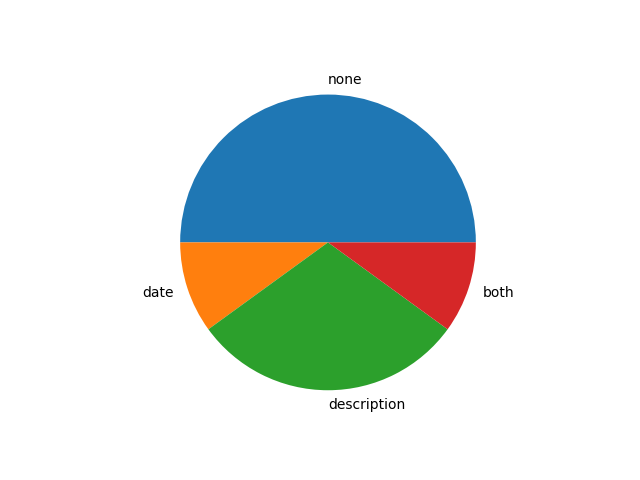
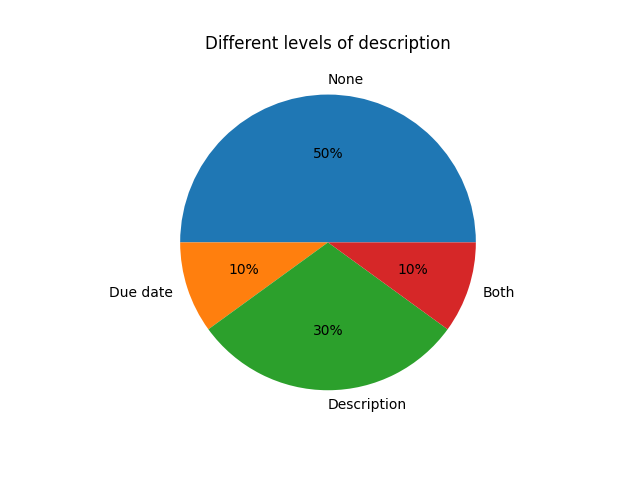
graphs shown in users

diff --git a/front-end/src/routes/+layout.svelte b/front-end/src/routes/+layout.svelte
@@ -47,7 +47,7 @@
               <a href="/" class="text-gray-300 hover:bg-gray-700 hover:text-white rounded-md px-3 py-2 text-sm font-medium">Home</a>
               <a href="/tasks" class="text-gray-300 hover:bg-gray-700 hover:text-white rounded-md px-3 py-2 text-sm font-medium">Tasks</a>
               <a href="/about" class="text-gray-300 hover:bg-gray-700 hover:text-white rounded-md px-3 py-2 text-sm font-medium">About</a>
-              {#if admin}
+              {#if admin} 
                 <a href="/users" class="text-gray-300 hover:bg-gray-700 hover:text-white rounded-md px-3 py-2 text-sm font-medium">Users</a>
               {/if}
             </div>
@@ -74,7 +74,7 @@
         <a href="/tasks" class="text-gray-300 hover:bg-gray-700 hover:text-white block rounded-md px-3 py-2 text-base font-medium">Tasks</a>
         <a href="/about" class="text-gray-300 hover:bg-gray-700 hover:text-white block rounded-md px-3 py-2 text-base font-medium">About</a>
         {#if admin}
-        <a href="/users" class="text-gray-300 hover:bg-gray-700 hover:text-white block rounded-md px-3 py-2 text-base font-medium">Users</a>
+            <a href="/users" class="text-gray-300 hover:bg-gray-700 hover:text-white block rounded-md px-3 py-2 text-base font-medium">Users</a>
         {/if}
     </div>
     </div>

diff --git a/front-end/src/routes/users/+page.svelte b/front-end/src/routes/users/+page.svelte
@@ -57,3 +57,18 @@
 {#if is_fetched}
     <Users {users} {SERWER_URL}/>
 {/if}
+
+<table>
+    <tr>
+        <td><img src="/bar.png">
+        </td>
+        <td><img src="/hist.png">
+        </td>
+    </tr>
+    <tr>
+        <td><img src="/pie_done.png">
+        </td>
+        <td><img src="/pie_details.png">
+        </td>
+    </tr>
+</table>

diff --git a/backend/routers/graphs.py b/backend/routers/graphs.py
@@ -1,14 +1,13 @@
 import matplotlib.pyplot as plt
-from .models import Task_Pydantic, TaskIn_Pydantic, User_Pydantic, Tasks, Users
 
 def plotting(user_dict):
 
     path = "../front-end/static/"
     names = []
     values = []
-    details = ["none", "date", "description", "both"]
+    details = ["None", "Due date", "Description", "Both"]
     details_values = [0,0,0,0]
-    done = ["done", "not done"]
+    done = ["Done", "Not done"]
     done_values = [0,0]
     for user in user_dict:
         names.append(user)
@@ -28,18 +27,54 @@ def plotting(user_dict):
             else:
                 details_values[0] += 1
 
+
+    # fig, axs = plt.subplots(2,2)
+    # fig.tight_layout(w_pad = 8, h_pad = 8)
+
+    # axs[0,0].bar(names, values)
+    # axs[0,0].set_yticks(list(range(0,10,1)))
+    # axs[0,0].set_xlabel("Username")
+    # axs[0,0].set_ylabel("Active tasks")
+    # axs[0,0].set_title("Number of active tasks per user")
+
+    # axs[0,1].hist(values, bins=8)
+    # axs[0,1].set_yticks(list(range(0,6,1)))
+    # axs[0,1].set_xticks(list(range(0,8,1)))
+    # axs[0,1].set_xlabel("Active tasks")
+    # axs[0,1].set_ylabel("Number of users")
+    # axs[0,1].set_title("Number of users having certain number of active tasks")
+    
+
+    # axs[1,0].pie(done_values, labels = done, autopct="%.0f%%")
+    # axs[1,0].set_title("Done active tasks")
+
+    # axs[1,1].pie(details_values, labels = details, autopct="%.0f%%")
+    # axs[1,1].set_title("Different levels of description")
+
+    # plt.savefig(path + "graphs.png")
         
     plt.bar(names, values)
+    plt.yticks(list(range(0,10,1)))
+    plt.xlabel("Username")
+    plt.ylabel("Active tasks")
+    plt.title("Number of active tasks per user")
     plt.savefig(path + "bar.png")
     plt.clf()
 
     plt.hist(values)
+    plt.yticks(list(range(0,6,1)))
+    plt.xticks(list(range(0,8,1)))
+    plt.xlabel("Active tasks")
+    plt.ylabel("Number of users")
+    plt.title("Number of users having certain number of active tasks")
     plt.savefig(path + "hist.png")
     plt.clf()
 
-    plt.pie(done_values, labels = done)
+    plt.pie(done_values, labels = done, autopct="%.0f%%")
+    plt.title("Done active tasks")
     plt.savefig(path + "pie_done.png")
     plt.clf()
 
-    plt.pie(details_values, labels = details)
+    plt.pie(details_values, labels = details, autopct="%.0f%%")
+    plt.title("Different levels of description")
     plt.savefig(path + "pie_details.png")
